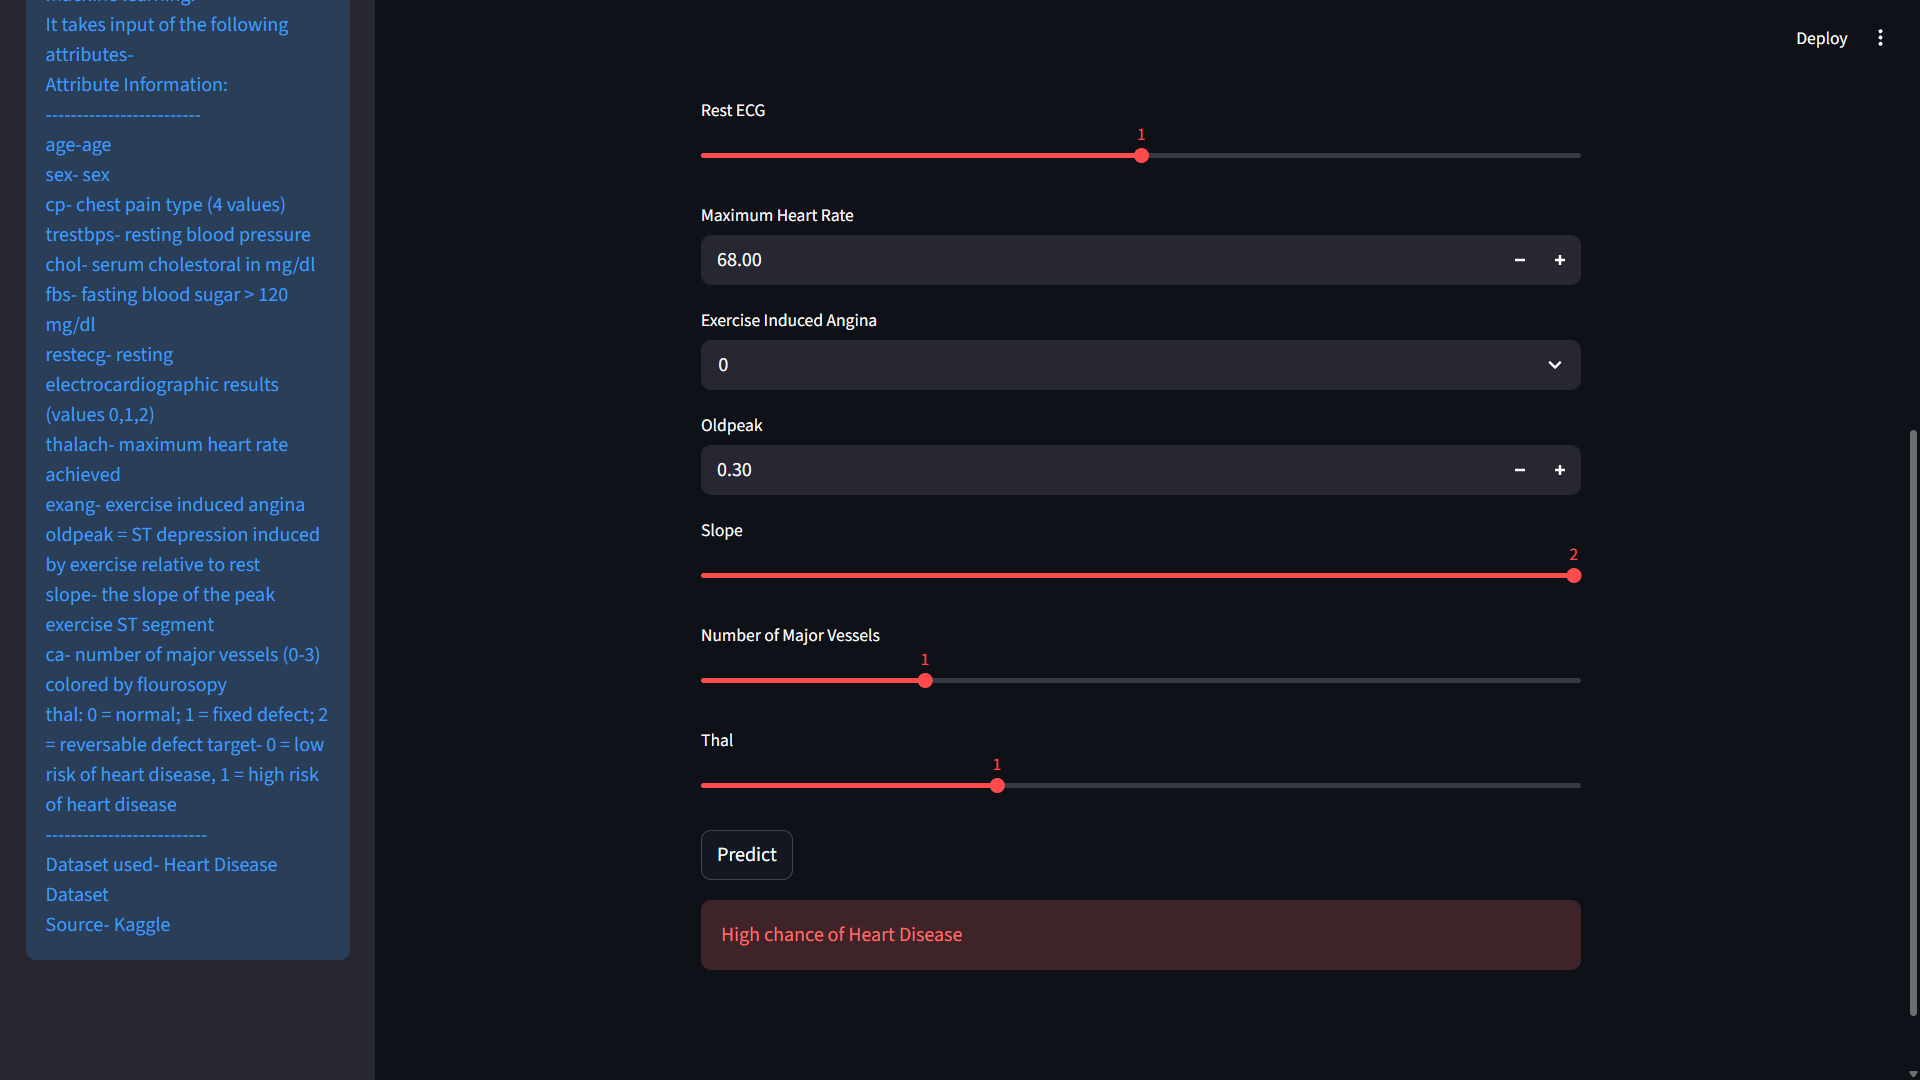
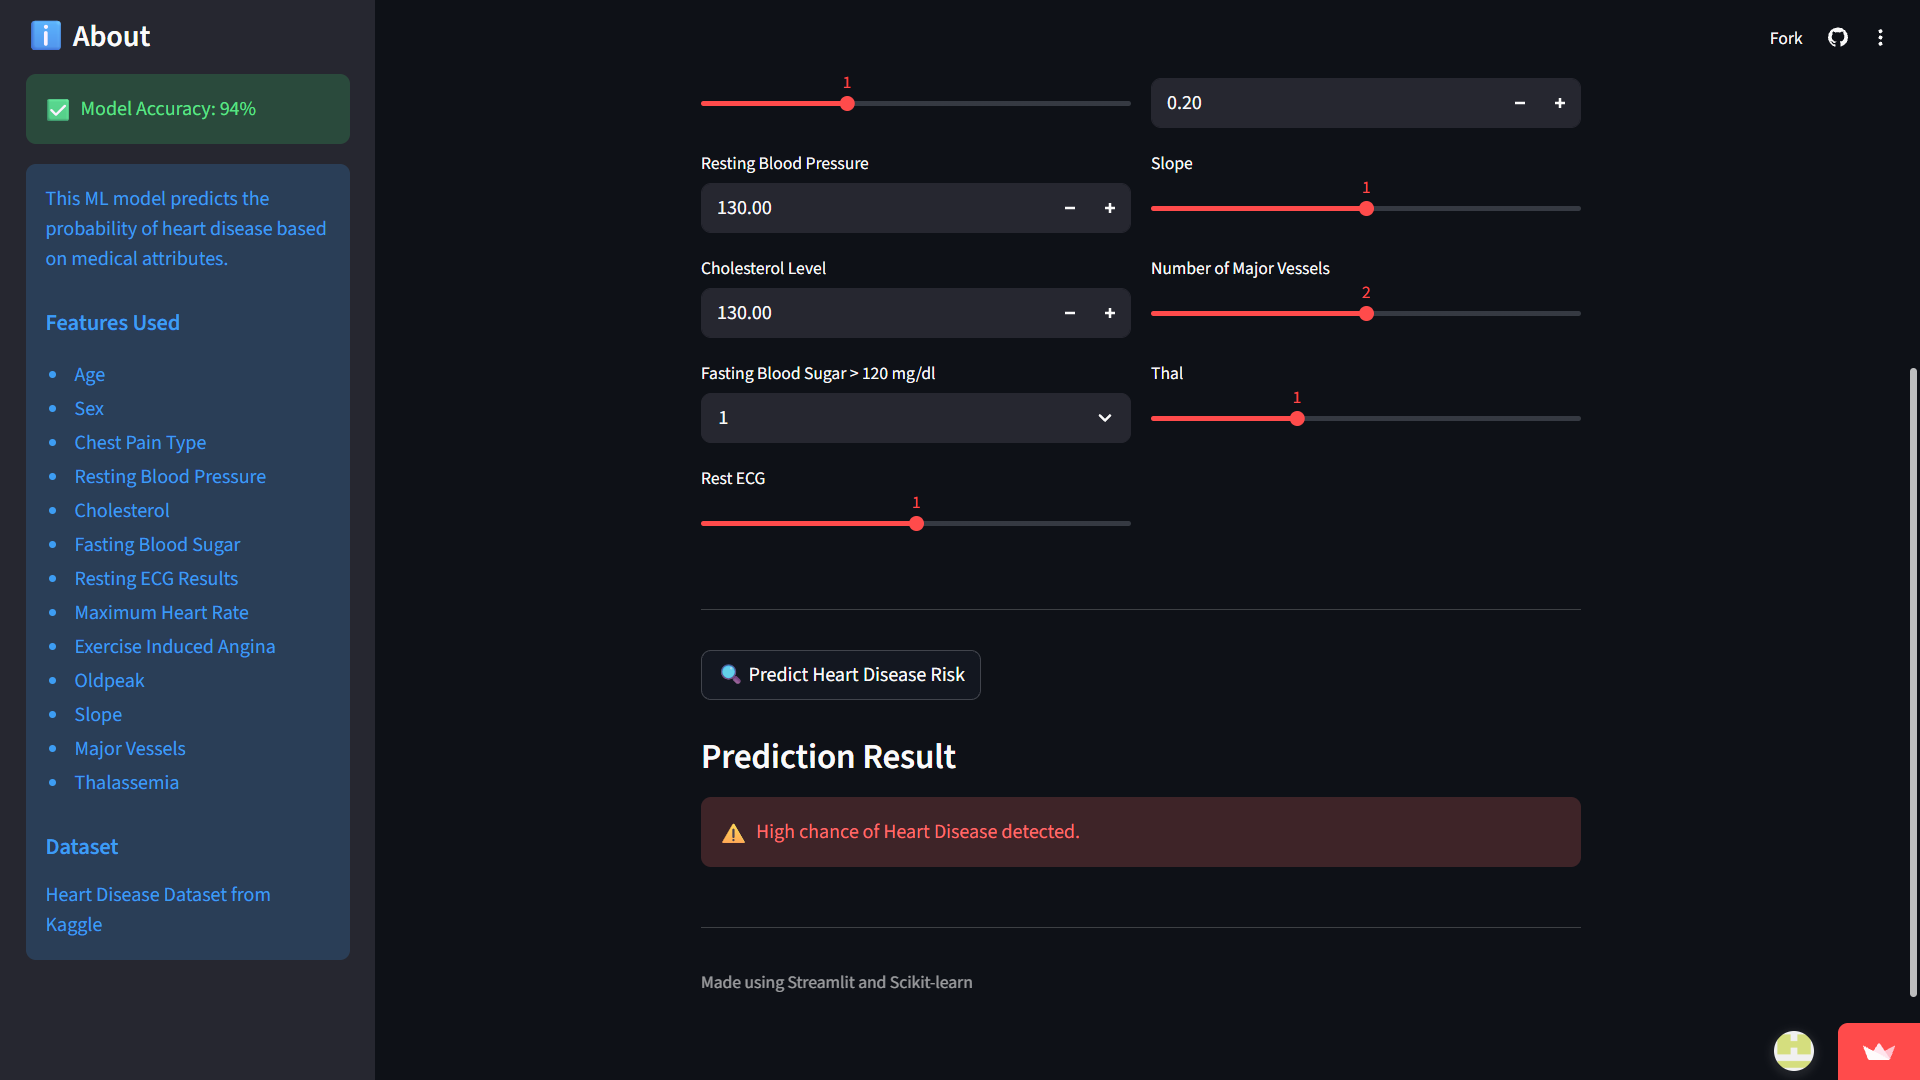
added live app link to README and updated screenshots

diff --git a/README.md b/README.md
@@ -2,6 +2,9 @@
 -----------------------------------------------
 A machine learning project that predicts the likelihood of heart disease using patient health data.
 
+## Live Demo-  
+https://cardio-predict-ml.streamlit.app/  
+
 ## Features-  
 Data preprocessin  
 Exploratory Data Analysis  